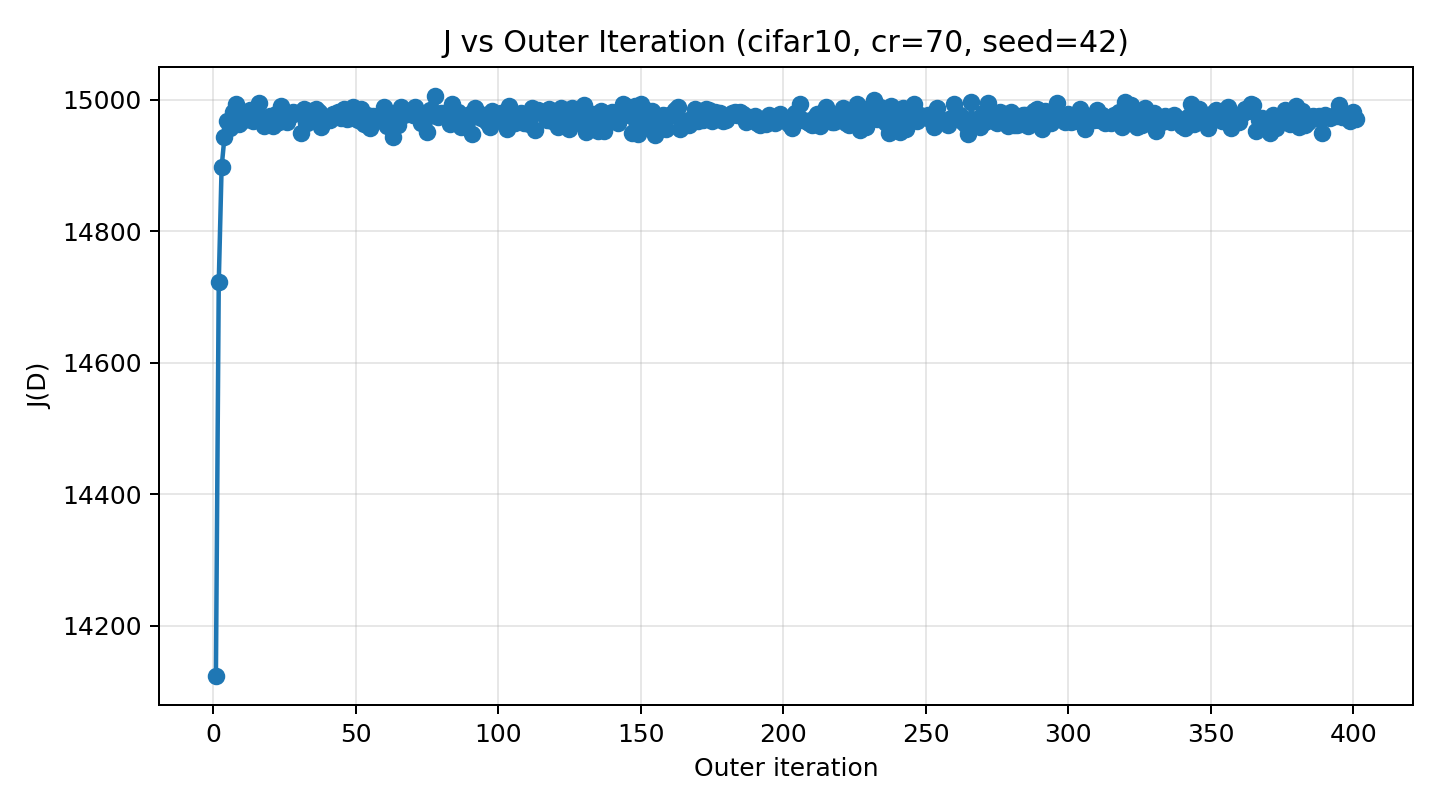
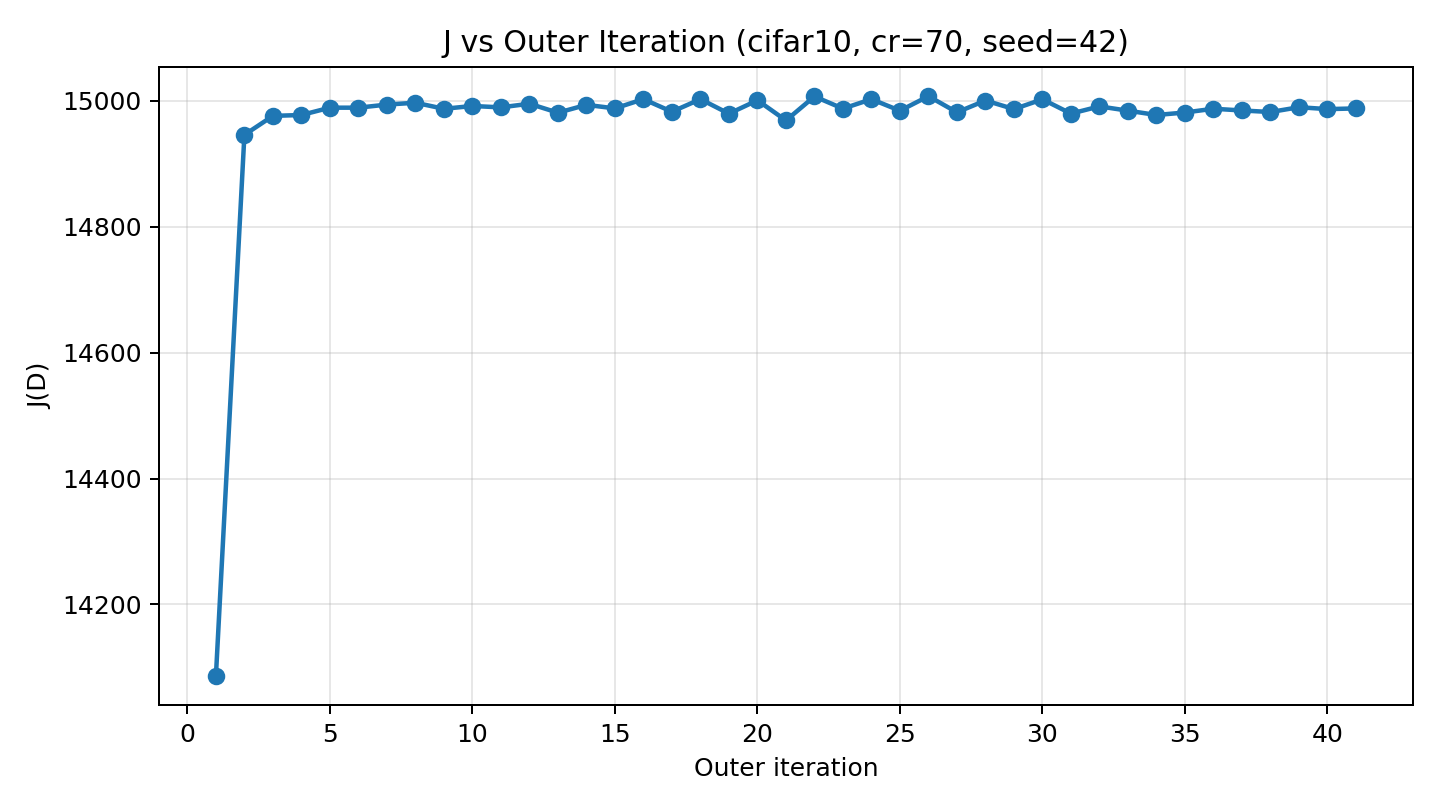
xx

diff --git a/calculate_my_mask.py b/calculate_my_mask.py
@@ -78,11 +78,11 @@ def parse_args() -> argparse.Namespace:
         default="resnet50",
         help="mask 保存路径中的模型名称",
     )
-    parser.add_argument("--debug-outer", type=int, default=3)
-    parser.add_argument("--yangclip-steps", type=int, default=10000)
+    parser.add_argument("--debug-outer", type=int, default=40)
+    parser.add_argument("--yangclip-steps", type=int, default=20000)
     parser.add_argument("--yangclip-lr", type=float, default=0.1)
-    parser.add_argument("--yangclip-beta", type=float, default=50.0)
-    parser.add_argument("--yangclip-theta", type=float, default=5e-4)
+    parser.add_argument("--yangclip-beta", type=float, default=1.0)
+    parser.add_argument("--yangclip-theta", type=float, default=1e-3)
     return parser.parse_args()
 
 
@@ -329,17 +329,24 @@ def select_group_mask(
         final_lsa = 0.0
         final_ls = 0.0
         final_ls_eff = 0.0
-        final_rate = 0.0
+        final_rate_mean = 0.0
+        final_gap_mean = 0.0
+        final_gap_max = 0.0
 
         for _ in range(yangclip_steps):
             optimizer.zero_grad(set_to_none=True)
             z = torch.sigmoid(d)
             b = (z > 0.5).float()
             b_ste = b + z - z.detach()
-            rate = torch.mean(b_ste)
+            class_sums = torch.zeros(num_classes, dtype=torch.float32, device=device)
+            class_counts = torch.zeros(num_classes, dtype=torch.float32, device=device)
+            class_sums.index_add_(0, labels_t, b_ste)
+            class_counts.index_add_(0, labels_t, torch.ones_like(b_ste))
+            rate_c = class_sums / class_counts.clamp_min(1.0)
 
             lsa = -torch.mean(z * s_all_t)
-            ls = torch.sqrt((rate - sr) ** 2 + 1e-12)
+            ls_c = torch.sqrt((rate_c - sr) ** 2 + 1e-12)
+            ls = torch.mean(ls_c)
             ls_eff = torch.relu(ls - yangclip_theta)
             loss = lsa + yangclip_beta * ls_eff
             loss.backward()
@@ -349,13 +356,23 @@ def select_group_mask(
             final_lsa = float(lsa.item())
             final_ls = float(ls.item())
             final_ls_eff = float(ls_eff.item())
-            final_rate = float(rate.item())
+            gap_c = torch.abs(rate_c - sr)
+            final_rate_mean = float(rate_c.mean().item())
+            final_gap_mean = float(gap_c.mean().item())
+            final_gap_max = float(gap_c.max().item())
 
         with torch.no_grad():
             z_final = torch.sigmoid(d)
             b_final = (z_final > 0.5).to(torch.uint8)
-            rate_hard = float(b_final.float().mean().item())
-            hard_gap = abs(rate_hard - sr)
+            b_final_f = b_final.float()
+            hard_class_sums = torch.zeros(num_classes, dtype=torch.float32, device=device)
+            hard_class_counts = torch.zeros(num_classes, dtype=torch.float32, device=device)
+            hard_class_sums.index_add_(0, labels_t, b_final_f)
+            hard_class_counts.index_add_(0, labels_t, torch.ones_like(b_final_f))
+            hard_rate_c = hard_class_sums / hard_class_counts.clamp_min(1.0)
+            hard_gap_c = torch.abs(hard_rate_c - sr)
+            rate_hard = float(hard_rate_c.mean().item())
+            hard_gap = float(hard_gap_c.max().item())
             d_mean = float(d.mean().item())
             d_std = float(d.std().item())
             d_max = float(torch.max(torch.abs(d)).item())
@@ -365,7 +382,8 @@ def select_group_mask(
         tqdm.write(
             f"[SGD-final][outer {outer_idx + 1}] loss={final_loss:.6f} "
             f"Lsa={final_lsa:.6f} Ls={final_ls:.6f} Ls_eff={final_ls_eff:.6f} "
-            f"beta={yangclip_beta:.3f} sr={sr:.6f} rate={final_rate:.6f} gap={abs(final_rate - sr):.6f} "
+            f"beta={yangclip_beta:.3f} sr={sr:.6f} "
+            f"rate_mean={final_rate_mean:.6f} gap_mean={final_gap_mean:.6f} gap_max={final_gap_max:.6f} "
             f"d_mean/d_std/max|d|={d_mean:.6f}/{d_std:.6f}/{d_max:.6f} "
             f"sigmoid(d)_mean/std={z_mean:.6f}/{z_std:.6f}"
         )
@@ -381,8 +399,8 @@ def select_group_mask(
             "Lsa": final_lsa,
             "Ls": final_ls,
             "Ls_eff": final_ls_eff,
-            "rate": final_rate,
-            "gap": abs(final_rate - sr),
+            "rate": final_rate_mean,
+            "gap": final_gap_mean,
             "hard_rate": rate_hard,
             "hard_gap": hard_gap,
         }
